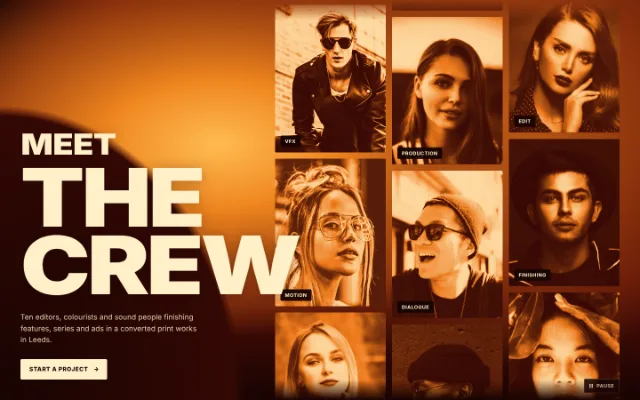
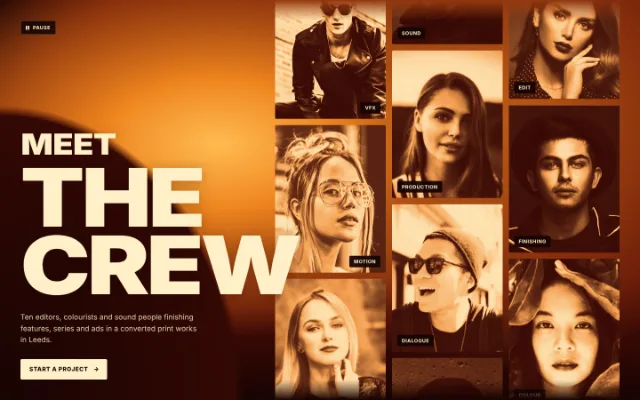
duotone-team-roster: round 2 fixes
First-column chips anchor right and the headline eases back while a
first-column card is open; panels flip near the bottom edge; paler tritone
midtone (palette.mid); drift={false} still wall with a sticky headline,
used by the cobalt demo; Pause in the top-left corner and first in tab
order; folded panels hidden from assistive tech.

Claude-Session: https://claude.ai/code/session_01P6ReQ3Y4s3Rh9czxca6V9N

diff --git a/components/duotone-team-roster/duotone-team-roster.tsx b/components/duotone-team-roster/duotone-team-roster.tsx
@@ -36,6 +36,8 @@ export type RosterPalette = {
   /** Tritone shadow and highlight applied to every portrait. */
   shadow: string
   highlight: string
+  /** Tritone midtone. Defaults to a paler mix of hot and highlight so prints lift off the field. */
+  mid?: string
 }
 
 export type TeamMember = {
@@ -113,6 +115,8 @@ export type DuotoneTeamRosterProps = {
   columns?: number
   /** Seconds a column takes to drift past one portrait. Lower is faster. */
   driftSeconds?: number
+  /** false (or driftSeconds <= 0) gives a still, scannable wall that grows with the team, headline pinned beside it. */
+  drift?: boolean
   /** Section height on tablet and desktop. A definite length, never a percentage. */
   height?: string
   /** Display face for the headline, eyebrow and monograms. */
@@ -293,8 +297,8 @@ const css = `
 .dtr-card::after{content:"";position:absolute;inset:0;z-index:-1;border-radius:inherit;box-shadow:0 2px 6px color-mix(in srgb,var(--dtr-ground) 40%,transparent),0 18px 44px -12px color-mix(in srgb,var(--dtr-ground) 85%,transparent);opacity:0;transition:opacity 260ms ease;pointer-events:none}
 .dtr-photo{position:absolute;inset:0;overflow:hidden;border-radius:3px;background:var(--dtr-deep);transition:opacity 260ms ease,filter 260ms ease}
 .dtr-photo img{position:absolute;inset:0;display:block;width:100%;height:100%;max-width:none;object-fit:cover;transition:transform 300ms var(--dtr-ease)}
-.dtr-photo img{transform-origin:50% 0}
-.dtr-card[data-on] .dtr-photo img{transform:translateY(-10%) scale(1.12)}
+.dtr-photo img{transform-origin:50% 22%}
+.dtr-card[data-on] .dtr-photo img{transform:scale(1.05)}
 .dtr-hit{position:absolute;inset:0;z-index:1;margin:0;padding:0;border:0;border-radius:3px;background:transparent;cursor:default;outline:none;-webkit-tap-highlight-color:transparent}
 .dtr-card[data-click] .dtr-hit{cursor:pointer}
 .dtr-hit:focus-visible{box-shadow:0 0 0 2px var(--dtr-ground),0 0 0 4px var(--dtr-ink)}
@@ -305,23 +309,29 @@ const css = `
 .dtr-plate{grid-template-rows:1fr auto 1fr}.dtr-plate span{grid-row:2}
 .dtr-plate em{transition:opacity 160ms ease;grid-row:3;align-self:start;margin-top:.9em;max-width:80%;font:700 12px/1.35 ui-sans-serif,system-ui,sans-serif;letter-spacing:.04em;text-transform:uppercase;font-style:normal;text-align:center;color:color-mix(in srgb,var(--dtr-ink) 78%,transparent)}
 .dtr-role .dtr-plate{background:repeating-linear-gradient(135deg,transparent 0 10px,color-mix(in srgb,var(--dtr-ink) 9%,transparent) 10px 11px),radial-gradient(90% 70% at 50% 30%,color-mix(in srgb,var(--dtr-hot) 70%,var(--dtr-deep)),var(--dtr-ground) 85%);box-shadow:inset 0 0 0 1px color-mix(in srgb,var(--dtr-ink) 28%,transparent);font-size:clamp(34px,5.2cqw,76px)}
+.dtr-card{--dtr-ct:calc(100% - 26px);--dtr-cr:calc(100% - var(--dtr-cw));--dtr-cb:0px;--dtr-cl:0px}
 .dtr-chip,.dtr-panel{position:absolute;left:12px;bottom:12px;background:color-mix(in srgb,var(--dtr-ground) 95%,transparent);color:var(--dtr-ink);border-radius:3px}
 .dtr-chip{padding:8px 10px 7px;font-size:11px;font-weight:700;line-height:1;letter-spacing:.06em;text-transform:uppercase;white-space:nowrap;max-width:calc(100% - 24px);overflow:hidden;text-overflow:ellipsis;transition:opacity 160ms ease}
-.dtr-panel{z-index:2;right:12px;max-height:calc(100% - 24px);overflow:hidden;padding:11px 13px 12px;clip-path:inset(calc(100% - 26px) calc(100% - var(--dtr-cw)) 0 0 round 3px);opacity:0;transition:clip-path 200ms var(--dtr-ease),opacity 100ms ease 120ms;pointer-events:none}
-.dtr-panel-craft{display:block;font-size:11px;font-weight:700;letter-spacing:.06em;text-transform:uppercase;color:color-mix(in srgb,var(--dtr-ink) 70%,transparent);margin-bottom:6px}
+.dtr-panel{z-index:2;right:12px;max-height:calc(100% - 24px);overflow:hidden;padding:10px 12px 11px;clip-path:inset(var(--dtr-ct) var(--dtr-cr) var(--dtr-cb) var(--dtr-cl) round 3px);opacity:0;visibility:hidden;transition:clip-path 200ms var(--dtr-ease),opacity 100ms ease 120ms,visibility 0s linear 220ms;pointer-events:none}
+.dtr-col:first-child .dtr-chip{left:auto;right:12px}
+.dtr-col:first-child .dtr-card{--dtr-cr:0px;--dtr-cl:calc(100% - var(--dtr-cw))}
+.dtr-card[data-flip] .dtr-panel{bottom:auto;top:12px}
+.dtr-card[data-flip]{--dtr-ct:0px;--dtr-cb:calc(100% - 26px)}
 .dtr-name{margin:0;font-size:clamp(16px,1.25cqw,19px);font-weight:800;line-height:1.15;letter-spacing:-.01em}
 .dtr-roleline{margin:3px 0 0;font-size:13px;line-height:1.35;color:color-mix(in srgb,var(--dtr-ink) 78%,transparent)}
-.dtr-bio{margin:6px 0 0;font-size:13px;line-height:1.4;display:-webkit-box;-webkit-line-clamp:2;-webkit-box-orient:vertical;overflow:hidden;color:color-mix(in srgb,var(--dtr-ink) 90%,transparent)}
+.dtr-bio{margin:6px 0 0;font-size:13px;line-height:1.4;color:color-mix(in srgb,var(--dtr-ink) 90%,transparent)}
 .dtr-panel a{display:inline-flex;align-items:center;gap:6px;margin-top:8px;color:var(--dtr-ink);font-size:13px;font-weight:700;text-decoration:underline;text-decoration-thickness:1px;text-underline-offset:4px;outline:none}
 .dtr-panel a span{display:inline-block;transition:transform 260ms var(--dtr-ease)}
 .dtr-card[data-on]{z-index:3;transform:translateY(-6px) scale(1.02)}
 .dtr-card[data-on]::after{opacity:1}
 .dtr-card[data-on] .dtr-true{opacity:1}
 .dtr-card[data-on] .dtr-chip,.dtr-card[data-on] .dtr-plate em{opacity:0;transition-duration:90ms}
-.dtr-card[data-on] .dtr-panel{clip-path:inset(0 0 0 0 round 3px);opacity:1;pointer-events:auto;transition:clip-path 300ms var(--dtr-ease),opacity 60ms ease}
+.dtr-card[data-on] .dtr-panel{clip-path:inset(0 0 0 0 round 3px);opacity:1;visibility:visible;pointer-events:auto;transition:clip-path 300ms var(--dtr-ease),opacity 60ms ease,visibility 0s}
+.dtr-title{transform-origin:0 100%;transition:transform 300ms var(--dtr-ease)}
+.dtr[data-active-col="0"] .dtr-title{transform:scale(.84)}
 .dtr[data-active] .dtr-card:not([data-on]) .dtr-photo{opacity:.42;filter:saturate(.7)}
 .dtr[data-active] .dtr-card:not([data-on]) .dtr-chip{opacity:.5}
-.dtr-pause{position:absolute;right:var(--dtr-pad);bottom:16px;z-index:4;box-shadow:inset 0 0 0 1px color-mix(in srgb,var(--dtr-ink) 32%,transparent);display:inline-flex;align-items:center;gap:8px;height:32px;padding:0 12px;border:0;border-radius:3px;background:color-mix(in srgb,var(--dtr-ground) 88%,transparent);color:var(--dtr-ink);font:700 11px/1 ui-sans-serif,system-ui,sans-serif;letter-spacing:.06em;text-transform:uppercase;cursor:pointer;transition:transform 160ms var(--dtr-ease),background-color 200ms ease;outline:none}
+.dtr-pause{position:absolute;left:var(--dtr-pad);top:var(--dtr-pad);z-index:4;box-shadow:inset 0 0 0 1px color-mix(in srgb,var(--dtr-ink) 32%,transparent);display:inline-flex;align-items:center;gap:8px;height:32px;padding:0 12px;border:0;border-radius:3px;background:color-mix(in srgb,var(--dtr-ground) 88%,transparent);color:var(--dtr-ink);font:700 11px/1 ui-sans-serif,system-ui,sans-serif;letter-spacing:.06em;text-transform:uppercase;cursor:pointer;transition:transform 160ms var(--dtr-ease),background-color 200ms ease;outline:none}
 .dtr-pause:active{transform:scale(.96)}
 .dtr-pause i{display:inline-block;width:8px;height:9px;border-left:3px solid currentColor;border-right:3px solid currentColor}
 .dtr[data-paused] .dtr-pause i{border-right:0;border-left:8px solid currentColor;border-top:4.5px solid transparent;border-bottom:4.5px solid transparent;width:0;height:0}
@@ -332,8 +342,19 @@ const css = `
 .dtr-strip-track{display:flex;width:max-content;padding-left:20px;will-change:transform;transition:translate 280ms var(--dtr-ease);animation:dtr-left var(--dtr-sdur) linear infinite}
 .dtr-strip .dtr-card{width:clamp(170px,56cqw,250px);margin:0 10px 0 0;flex:none}
 .dtr[data-mode="strip"] .dtr-copy{padding:18px 20px 28px}
-.dtr[data-mode="strip"] .dtr-pause{position:relative;right:auto;bottom:auto;display:flex;width:max-content;margin:12px 20px 0 auto}
-@container dtrcard (max-width:229px){.dtr-bio{display:none}}
+.dtr[data-mode="strip"] .dtr-pause{left:auto;right:28px;top:30px}
+.dtr[data-static] .dtr-track{animation:none}
+.dtr[data-static] .dtr-wall{height:auto;padding-top:var(--dtr-pad);padding-bottom:var(--dtr-pad);-webkit-mask-image:none;mask-image:none}
+.dtr[data-static] .dtr-col:nth-child(2){padding-top:clamp(32px,6cqw,96px)}
+.dtr[data-static] .dtr-col:nth-child(3){padding-top:clamp(16px,3cqw,48px)}
+.dtr[data-static] .dtr-col:nth-child(4){padding-top:clamp(48px,8cqw,128px)}
+.dtr[data-static] .dtr-in{height:auto;align-items:start}
+.dtr[data-static] .dtr-copy{position:sticky;top:0;height:var(--dtr-h);min-height:600px}
+.dtr[data-static][data-mode="strip"] .dtr-copy{position:relative;height:auto;min-height:0}
+.dtr[data-static] .dtr-strip{overflow-x:auto;scroll-snap-type:x mandatory;scrollbar-width:none}
+.dtr[data-static] .dtr-strip-track{animation:none;padding-right:20px}
+.dtr[data-static] .dtr-strip .dtr-card{scroll-snap-align:start}
+@container dtrcard (max-width:229px){.dtr-bio{font-size:12px;line-height:1.35}.dtr-panel{padding:9px 10px 10px}.dtr-name{font-size:15px}}
 @keyframes dtr-up{from{transform:translate3d(0,0,0)}to{transform:translate3d(0,-50%,0)}}
 @keyframes dtr-down{from{transform:translate3d(0,-50%,0)}to{transform:translate3d(0,0,0)}}
 @keyframes dtr-left{from{transform:translate3d(0,0,0)}to{transform:translate3d(calc(-50% + 10px),0,0)}}
@@ -353,6 +374,7 @@ const css = `
 .dtr-col,.dtr-line>span>span{animation:none}
 .dtr-card,.dtr-panel,.dtr-cta-label>span,.dtr-cta-arrow{transition-duration:1ms}
 .dtr-card[data-on],.dtr-card[data-on] .dtr-photo img{transform:none}
+.dtr-title{transition-duration:1ms}
 .dtr-pause{display:none}
 }
 `
@@ -403,6 +425,7 @@ function Portrait(props: {
 }) {
   const { slot, on, filterId, labels, onEnter, onLeave, onToggle, onSelect } = props
   const [failed, setFailed] = React.useState(false)
+  const [flip, setFlip] = React.useState(false)
   const pointer = React.useRef("mouse")
   const panelId = "p" + React.useId().replace(/[^a-zA-Z0-9]/g, "")
   const hidden = slot.dup
@@ -428,13 +451,23 @@ function Portrait(props: {
       className={"dtr-card" + (isRole ? " dtr-role" : "")}
       data-on={on ? "" : undefined}
       data-click={clickable ? "" : undefined}
+      data-flip={flip ? "" : undefined}
       aria-hidden={hidden ? true : undefined}
       style={{ ["--dtr-cw" as any]: Math.min(26, craft.length) * 0.74 + 2.2 + "em" }}
       onPointerDown={(e) => {
         pointer.current = e.pointerType
       }}
       onPointerEnter={(e) => {
-        if (e.pointerType === "mouse") onEnter(slot.key)
+        if (e.pointerType !== "mouse") return
+        // Near the bottom edge of the frame the card unfolds from its top instead.
+        const card = e.currentTarget
+        const frame = card.closest(".dtr-wall, .dtr-strip") as HTMLElement | null
+        if (frame) {
+          const r = card.getBoundingClientRect()
+          const f = frame.getBoundingClientRect()
+          setFlip(r.bottom > f.bottom - 48 && r.top > f.top + 24)
+        }
+        onEnter(slot.key)
       }}
       onPointerLeave={(e) => {
         if (e.pointerType === "mouse") onLeave(slot.key)
@@ -526,6 +559,7 @@ function Portrait(props: {
       <div
         className="dtr-panel"
         id={panelId}
+        aria-hidden={on ? undefined : true}
         onKeyDown={(e) => {
           if (e.key !== "Escape") return
           const btn = e.currentTarget.parentElement?.querySelector(".dtr-hit") as HTMLElement | null
@@ -533,9 +567,6 @@ function Portrait(props: {
           onLeave(slot.key)
         }}
       >
-        <span className="dtr-panel-craft" aria-hidden="true">
-          {craft}
-        </span>
         <p className="dtr-name">{member ? member.name : role ? role.title : ""}</p>
         {member || (role && role.note) ? <p className="dtr-roleline">{member ? member.role : role ? role.note : ""}</p> : null}
         {member && member.bio ? <p className="dtr-bio">{member.bio}</p> : null}
@@ -561,6 +592,7 @@ export default function DuotoneTeamRoster({
   palette,
   columns = 3,
   driftSeconds = 9,
+  drift = true,
   height = "100svh",
   fontFamily = DISPLAY_STACK,
   stretch = 1.16,
@@ -587,11 +619,14 @@ export default function DuotoneTeamRoster({
 
   const lines = splitLines(title)
   // The shadow end is lifted toward the field so dark skin and dark clothes keep their detail.
-  const tables = tritoneTables(mixHex(pal.shadow, pal.deep, 0.4), pal.hot, pal.highlight)
+  const mid = (palette && palette.mid) || mixHex(pal.hot, pal.highlight, 0.35)
+  const tables = tritoneTables(mixHex(pal.shadow, pal.deep, 0.4), mid, mixHex(pal.highlight, pal.ink, 0.5))
+  const still = !drift || !(driftSeconds > 0)
+  const copies = still ? [0] : [0, 1]
   const [minPer, setMinPer] = React.useState(4)
   const plan = React.useMemo(
-    () => dealColumns(members.length, openRoles.length, cols || 1, cols ? minPer : 0),
-    [members.length, openRoles.length, cols, minPer],
+    () => dealColumns(members.length, openRoles.length, cols || 1, cols && !still ? minPer : 0),
+    [members.length, openRoles.length, cols, minPer, still],
   )
 
   const slotFor = (e: { kind: string; index: number; dup: boolean }, prefix: string): Slot =>
@@ -679,9 +714,10 @@ export default function DuotoneTeamRoster({
     ["--dtr-case" as any]: uppercase ? "uppercase" : "none",
     ["--dtr-cols" as any]: String(cols || 1),
     ["--dtr-ts" as any]: titleSize ? titleSize + "px" : undefined,
-    ["--dtr-sdur" as any]: Math.max(8, (members.length + openRoles.length) * driftSeconds * 0.55) + "s",
-    height: cols === 0 ? "auto" : height,
-    minHeight: cols === 0 ? undefined : "600px",
+    ["--dtr-sdur" as any]: Math.max(8, (members.length + openRoles.length) * Math.max(1, driftSeconds) * 0.55) + "s",
+    ["--dtr-h" as any]: height,
+    height: cols === 0 || still ? "auto" : height,
+    minHeight: cols === 0 ? undefined : still ? height : "600px",
   } as React.CSSProperties
 
   const pauseButton = (
@@ -706,7 +742,9 @@ export default function DuotoneTeamRoster({
       aria-labelledby={titleId}
       data-mode={cols === 0 ? "strip" : "columns"}
       data-active={active ? "" : undefined}
+      data-active-col={active && cols !== 0 ? active.split("-")[0] : undefined}
       data-paused={paused ? "" : undefined}
+      data-static={still ? "" : undefined}
       data-offscreen={offscreen ? "" : undefined}
     >
       <style>{css}</style>
@@ -727,6 +765,7 @@ export default function DuotoneTeamRoster({
       </svg>
       <div className="dtr-field" aria-hidden="true" />
       {grain ? <div className="dtr-grain" aria-hidden="true" /> : null}
+      {cols !== 0 && !still ? pauseButton : null}
 
       <div className="dtr-in">
         <div className="dtr-copy" ref={copyRef}>
@@ -765,9 +804,9 @@ export default function DuotoneTeamRoster({
         </div>
 
         {cols === 0 ? (
-          <div className="dtr-strip">
+          <div className="dtr-strip" role="group" aria-label={text.team}>
             <div className="dtr-strip-track">
-              {[0, 1].map((copy) =>
+              {copies.map((copy) =>
                 plan[0].map((e, i) => {
                   const slot = slotFor({ ...e, dup: e.dup || copy === 1 }, "s" + copy + "-" + i)
                   return (
@@ -786,12 +825,12 @@ export default function DuotoneTeamRoster({
                 }),
               )}
             </div>
-            {pauseButton}
+            {still ? null : pauseButton}
           </div>
         ) : (
           <div className="dtr-wall" role="group" aria-label={text.team}>
             {plan.map((col, c) => {
-              const dur = Math.max(6, col.length * driftSeconds)
+              const dur = Math.max(6, col.length * Math.max(1, driftSeconds))
               const phase = phases[c % phases.length]
               return (
                 <div
@@ -806,7 +845,7 @@ export default function DuotoneTeamRoster({
                   }}
                 >
                   <div className="dtr-track">
-                    {[0, 1].map((copy) =>
+                    {copies.map((copy) =>
                       col.map((e, i) => {
                         const slot = slotFor({ ...e, dup: e.dup || copy === 1 }, c + "-" + copy + "-" + i)
                         return (
@@ -829,7 +868,6 @@ export default function DuotoneTeamRoster({
                 </div>
               )
             })}
-            {pauseButton}
           </div>
         )}
       </div>

diff --git a/components/duotone-team-roster/demo-cobalt.tsx b/components/duotone-team-roster/demo-cobalt.tsx
@@ -29,6 +29,7 @@ export default function DuotoneTeamRosterCobaltDemo() {
           { title: "Solutions engineer", note: "Help fintechs go live, based in Lisbon", href: "#careers/solutions", craft: "Hiring" },
         ]}
         columns={3}
+        drift={false}
         stretch={1.08}
       />
     </div>

diff --git a/components/duotone-team-roster/README.md b/components/duotone-team-roster/README.md
@@ -6,9 +6,10 @@ A "meet the people" section for an about page, a studio site or a careers page. 
 
 - One file. Its only dependency is React; no other packages, fonts or CSS files.
 - Below about 700px of container width the columns become one drifting strip above the headline. Tablets get two columns.
-- A **Pause** button stops the drift (WCAG 2.2.2). The drift also pauses on hover, on focus, while a card is open and while the section is off screen.
+- A **Pause** button (top-left corner, first in the tab order) stops the drift (WCAG 2.2.2). Or pass `drift={false}` for a still wall. The drift also pauses on hover, on focus, while a card is open and while the section is off screen.
 - Under reduced motion, the columns stay still in their staggered positions and the entrances are skipped.
-- Keyboard: Tab moves through the portraits, each one unfolds and slides fully into view, Enter jumps to its link and Escape folds it.
+- Each portrait is a disclosure button (`aria-expanded`). Keyboard: Tab moves through the portraits, each one unfolds and slides fully into view, Enter moves to its link and Escape folds it. Folded cards are hidden from screen readers.
+- The headline's widest line runs on into the first column, like a poster. While a first-column card is open, the headline eases back into its own column.
 - If a photo fails to load, a monogram plate in the palette takes its place.
 
 ## Usage
@@ -38,7 +39,7 @@ export default function About() {
 
 | Prop | Type | Default | Notes |
 |---|---|---|---|
-| `members` | `TeamMember[]` | ten demo people | `{ name, role, craft?, bio?, photo?, focus?, href?, linkLabel? }`. `craft` is the chip label (falls back to `role`). `focus` is the `object-position` of the portrait. |
+| `members` | `TeamMember[]` | ten demo people | `{ name, role, craft?, bio?, photo?, focus?, href?, linkLabel?, exposure? }`. `craft` is the chip label (falls back to `role`). `focus` is the `object-position` of the portrait. `exposure` (e.g. `1.2`) brightens one photo before the tritone. |
 | `openRoles` | `OpenRole[]` | `[]` | `{ title, href, craft?, note?, mark? }`. Each one becomes an empty frame among the portraits ("You?" plus the role title) that unfolds into a link to the job. |
 | `eyebrow` | `string` | `"Meet"` | Small display word above the headline. |
 | `title` | `string` | `"The\ncrew"` | `\n` breaks lines. The widest line is fitted to the column width. |
@@ -46,16 +47,18 @@ export default function About() {
 | `cta` | `{ label, href } \| null` | `Start a project` | Primary button. |
 | `secondaryCta` | `{ label, href } \| null` | `null` | Underlined text link, e.g. "See open roles". |
 | `preset` | `"ember" \| "cobalt" \| "moss" \| "mono"` | `"ember"` | Field, chips and tritone together. |
-| `palette` | `Partial<RosterPalette>` | | Override any of `ground, deep, hot, glow, ink, shadow, highlight`. `shadow → hot → highlight` is the tritone. |
+| `palette` | `Partial<RosterPalette>` | | Override any of `ground, deep, hot, glow, ink, shadow, highlight`, plus `mid`, the tritone midtone (defaults to a paler mix of `hot` and `highlight` so the prints lift off the field). |
 | `columns` | `number` | `3` | Columns on wide screens (2 to 4). |
-| `driftSeconds` | `number` | `9` | Seconds a column takes to drift past one portrait. |
+| `driftSeconds` | `number` | `9` | Seconds a column takes to drift past one portrait. `0` turns the drift off. |
+| `drift` | `boolean` | `true` | `false` gives a still, scannable wall: every person once, columns staggered, the section grows with the team and the headline stays pinned beside it (sticky). The cobalt demo uses it. |
 | `height` | `string` | `"100svh"` | Tablet and desktop height; min 600px. A definite length, never a percentage. Phones size to content. |
 | `fontFamily` | `string` | `"Arial Black", "Archivo Black", "Helvetica Neue", Inter, …` | The display face. Pass your brand's heavy grotesk if the page already loads one. |
 | `stretch` | `number` | `1.16` | Horizontal stretch of the display face, for the wide poster look. `1` turns it off. |
 | `uppercase` | `boolean` | `true` | |
 | `grain` | `boolean` | `true` | Static film grain over the field. |
+| `labels` | `Partial<RosterLabels>` | English | `pause, play, team, openRole, hiring, roleLink, memberLink`, for translation. |
 | `className` | `string` | | |
-| `onMemberSelect` | `(member) => void` | | Called when a portrait is clicked or opened with Enter. |
+| `onMemberSelect` | `(member) => void` | | Called when a portrait is clicked or opened with Enter. Without it, a mouse click follows the person's `href`. |
 
 ## Notes
 

diff --git a/media/duotone-team-roster/review.md b/media/duotone-team-roster/review.md
@@ -100,3 +100,40 @@ A hard-edged dark arc was added to the field. The keyboard nudge eases back on b
 moved into `labels`, a mouse click follows the person's link, the title has a CSS fallback size
 instead of `visibility: hidden`, the layout effect is isomorphic, and the phone strip has a 20px
 inset.
+
+### Round 2 (fresh critic): REDO, average 7.4
+
+Scores: usability 7, idea 8, craft 6, originality 7, install-safety 9 (templates N/A). Banned
+looks: passes.
+
+Changes asked for, most important first:
+
+1. The overhanging headline covers chips in the first column. Lift the wall above the type while
+   a card is open, and anchor first-column chips on the right.
+2. A mouse-hover panel can unfold out of sight at the frame edges.
+3. The open card still buries the face. Drop the repeated craft line, scale the photo less, and
+   do not clip or hide the bio.
+4. The tritone midtone is too saturated, so the portraits melt into the field. Use a paler mid
+   and give installers control of it.
+5. The drift cannot be turned off, and `driftSeconds={0}` makes it faster.
+6. Pause placement: it sits on a face on desktop and is an orphan row on phones.
+7. Accessibility: folded panels are still read aloud, and the strip has no group label.
+8. Safari risk: the SVG filter runs on many images inside animated tracks.
+
+All eight changes were made:
+
+- The first-column chips and panels are anchored on the right. While a first-column card is
+  open, the headline eases back into its own column (scaled to 0.84), so nothing slices the type.
+- On hover, a card near the bottom edge unfolds its panel from the top.
+- The repeated craft line is gone. The photo zooms to only 1.05, and the full bio shows (smaller
+  on narrow cards).
+- The tritone midtone is a paler mix of `hot` and `highlight`, and the highlight is pushed toward
+  `ink`. `palette.mid` is a new prop.
+- `drift={false}` (or `driftSeconds <= 0`) gives a still, scannable wall with a sticky headline.
+  The cobalt demo uses it.
+- Pause is a chip in the top-left corner and first in the tab order. On phones it sits at the
+  strip's top-right.
+- Folded panels are `aria-hidden` and `visibility: hidden`, and the strip is a labelled group.
+- Safari: the SVG filter was kept. The tracks are composited layers (`will-change: transform`), so
+  the filtered images rasterise once rather than every frame. The drift also pauses off screen and
+  on hover. Teams that want no motion cost at all can use `drift={false}`.
